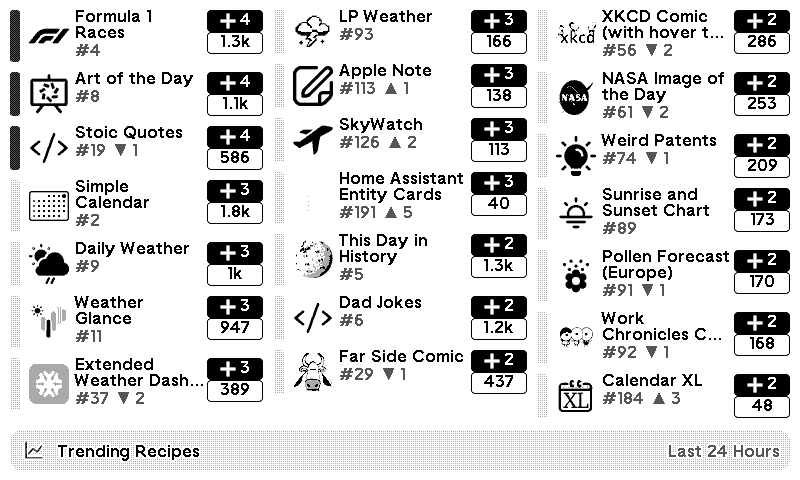
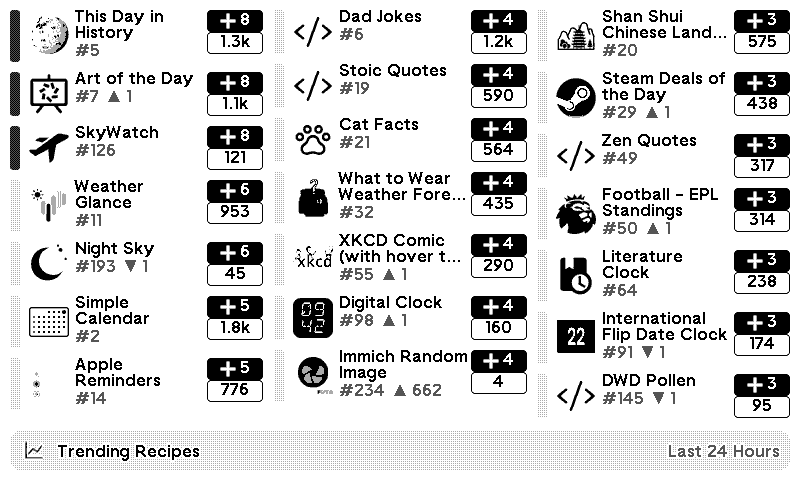
📊 Update plugin statistics in README

diff --git a/README.md b/README.md
@@ -3,7 +3,7 @@
 <!-- PLUGIN_STATS_START -->
 ## 🚀 TRMNL Plugin(s)
 
-*Last updated: 2026-05-01 08:08:08 UTC*
+*Last updated: 2026-05-02 07:28:41 UTC*
 
 
 ## <img src="assets/plugin-images/241645_icon.png" alt="Trending Recipes icon" width="32"/> [Trending Recipes](https://usetrmnl.com/recipes/241645)